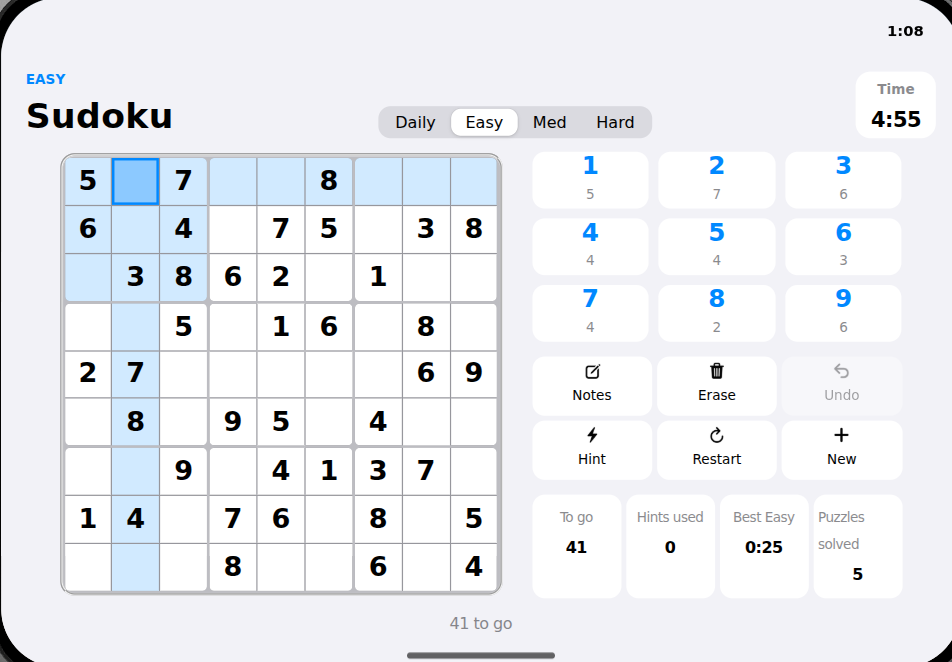
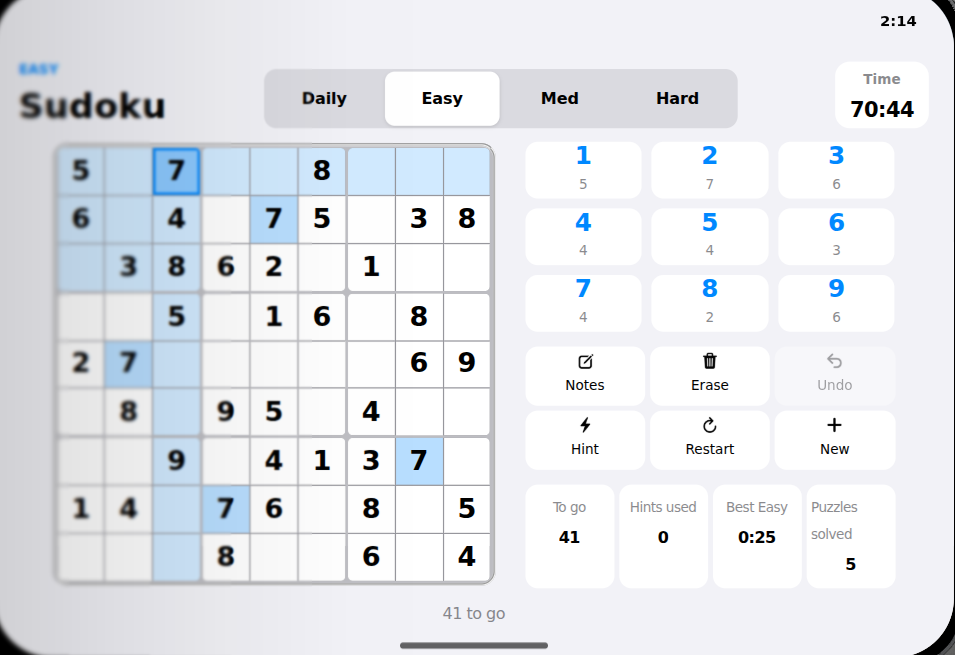
sudoku: trap focus inside confirm sheet, 44pt mode radiogroup
Make the underlying app inert while the destructive sheet is open, wrap
Tab/Shift+Tab between its actions, keep the scrim out of the tab order
and return focus to the opening control on every close path. Replace
the kit segmented (fixed 22pt choices) with a local >=44x44 radiogroup:
roving tab stop, arrows and Home/End move and focus the selection.
Refresh cover/inner screenshots for the taller mode row.

diff --git a/community-apps/sudoku/main.tsx b/community-apps/sudoku/main.tsx
@@ -1,6 +1,6 @@
 import { os } from '@doan-labs/duo-sdk'
 import { useKV } from '@doan-labs/duo-sdk/react.ts'
-import { Button, Segmented, Sheet, Sym, type SymProps, useDisplay, usePresence, useWide } from '@doan-labs/duo-uikit'
+import { Button, Sheet, Sym, type SymProps, useDisplay, usePresence, useWide } from '@doan-labs/duo-uikit'
 import { dark, light } from '@doan-labs/duo-uikit/styles.ts'
 import * as stylex from '@stylexjs/stylex'
 import { useCallback, useEffect, useMemo, useRef, useState } from 'react'
@@ -58,6 +58,56 @@ const firstOpen = (board: Grid) => {
   return i < 0 ? 0 : i
 }
 
+// The kit Segmented fixes its choices at 22 pt, which the 44 pt hit target
+// rules out, so the mode picker is a local radiogroup instead: a roving tab
+// stop, arrows and Home/End that move and focus the selection, and segments
+// sized by the control, not shrunk to their labels.
+function ModeGroup({ mode, onPick }: { mode: Mode; onPick: (m: Mode) => void }) {
+  const segs = useRef<(HTMLButtonElement | null)[]>([])
+  return (
+    <div role="radiogroup" aria-label="Game mode" {...stylex.props(styles.modeTrack)}>
+      {MODES.map((m, i) => {
+        const sel = m === mode
+        return (
+          <button
+            key={m}
+            ref={(el) => {
+              segs.current[i] = el
+            }}
+            type="button"
+            role="radio"
+            aria-checked={sel}
+            tabIndex={sel ? 0 : -1}
+            onClick={() => {
+              if (m !== mode) onPick(m)
+            }}
+            onKeyDown={(e) => {
+              const n = MODES.length
+              const j =
+                e.key === 'ArrowRight' || e.key === 'ArrowDown'
+                  ? (i + 1) % n
+                  : e.key === 'ArrowLeft' || e.key === 'ArrowUp'
+                    ? (i + n - 1) % n
+                    : e.key === 'Home'
+                      ? 0
+                      : e.key === 'End'
+                        ? n - 1
+                        : -1
+              if (j < 0 || j === i) return
+              e.preventDefault()
+              segs.current[j]?.focus()
+              onPick(MODES[j]!)
+            }}
+            {...stylex.props(styles.modeSeg, sel && styles.modeSegOn)}
+          >
+            {MODE_LABEL[m]}
+          </button>
+        )
+      })}
+    </div>
+  )
+}
+
 function Sudoku() {
   const view = useDisplay()
   const [rootRef, wide] = useWide<HTMLElement>()
@@ -80,6 +130,12 @@ function Sudoku() {
   // nulling state.
   const confirmKind = useRef<'restart' | 'new'>('restart')
   if (confirm) confirmKind.current = confirm
+  // Focus returns to whichever control opened the sheet, on every exit path.
+  const triggerRef = useRef<HTMLElement | null>(null)
+  const ask = (kind: 'restart' | 'new') => {
+    triggerRef.current = document.activeElement instanceof HTMLElement ? document.activeElement : null
+    setConfirm(kind)
+  }
 
   const lastSeen = useRef<string | null>(null)
   const storageLanded = useRef(false)
@@ -222,6 +278,22 @@ function Sudoku() {
     requestAnimationFrame(() => os.ready())
   }, [])
 
+  // While the sheet is up the rest of the app is inert and the scrim stays
+  // out of the tab order; on any close the trigger gets its focus back.
+  const wasConfirming = useRef(false)
+  useEffect(() => {
+    if (confirm !== null) {
+      wasConfirming.current = true
+      const scrim = rootRef.current?.querySelector('button[aria-label="Close"]')
+      if (scrim instanceof HTMLElement) scrim.tabIndex = -1
+    } else if (wasConfirming.current) {
+      wasConfirming.current = false
+      const t = triggerRef.current
+      triggerRef.current = null
+      t?.focus()
+    }
+  }, [confirm, rootRef])
+
   const press = useCallback(
     (key: string) => {
       const g = latest.current.game
@@ -347,7 +419,7 @@ function Sudoku() {
       label: 'Restart',
       icon: 'reload',
       disabled: false,
-      on: () => setConfirm('restart')
+      on: () => ask('restart')
     },
     // Daily is one fixed puzzle a day: "new" there is restart, so it drops out.
     ...(game.mode === 'daily'
@@ -358,29 +430,21 @@ function Sudoku() {
             label: 'New',
             icon: 'plus' as const,
             disabled: false,
-            on: () => setConfirm('new')
+            on: () => ask('new')
           }
         ])
   ]
 
   return (
     <main ref={rootRef} {...stylex.props(darkMode ? dark : light, styles.root, !wide && styles.rootCover)}>
-      <header {...stylex.props(styles.header)}>
+      <header {...stylex.props(styles.header)} inert={confirm !== null}>
         <div {...stylex.props(styles.brand)}>
           <span {...stylex.props(styles.kicker)}>{MODE_NAME[game.mode]}</span>
           <h1 {...stylex.props(styles.title, !wide && styles.titleCover)}>Sudoku</h1>
         </div>
         {wide && (
           <div {...stylex.props(styles.headerMode)}>
-            <Segmented
-              options={MODES.map((m) => MODE_LABEL[m])}
-              value={MODE_LABEL[game.mode]}
-              onChange={(label) => {
-                const next = MODES.find((m) => MODE_LABEL[m] === label)
-                if (next && next !== game.mode) deal(next)
-              }}
-              aria-label="Game mode"
-            />
+            <ModeGroup mode={game.mode} onPick={deal} />
           </div>
         )}
         <div {...stylex.props(styles.chip)} aria-live="off">
@@ -390,20 +454,12 @@ function Sudoku() {
       </header>
 
       {!wide && (
-        <div {...stylex.props(styles.bar)}>
-          <Segmented
-            options={MODES.map((m) => MODE_LABEL[m])}
-            value={MODE_LABEL[game.mode]}
-            onChange={(label) => {
-              const next = MODES.find((m) => MODE_LABEL[m] === label)
-              if (next && next !== game.mode) deal(next)
-            }}
-            aria-label="Game mode"
-          />
+        <div {...stylex.props(styles.bar)} inert={confirm !== null}>
+          <ModeGroup mode={game.mode} onPick={deal} />
         </div>
       )}
 
-      <section {...stylex.props(styles.stage, !wide && styles.stageCover)}>
+      <section {...stylex.props(styles.stage, !wide && styles.stageCover)} inert={confirm !== null}>
         <div {...stylex.props(styles.boardWrap)}>
           <fieldset aria-label="Sudoku board" {...stylex.props(styles.board, styles.boardSize(fit.board))}>
             {INDEXES.map((box) => (
@@ -540,11 +596,30 @@ function Sudoku() {
         </div>
       </section>
 
-      <p {...stylex.props(styles.status, !wide && styles.statusCover)} aria-live="polite">
+      <p {...stylex.props(styles.status, !wide && styles.statusCover)} aria-live="polite" inert={confirm !== null}>
         {note ?? statusText}
       </p>
 
-      <Sheet open={confirm !== null} onClose={() => setConfirm(null)} aria-label="Confirm">
+      <Sheet
+        open={confirm !== null}
+        onClose={() => setConfirm(null)}
+        aria-label="Confirm"
+        // The kit sheet is a non-modal dialog by design, so Tab containment
+        // is the app's job: wrap between its two action buttons.
+        onKeyDown={(e) => {
+          if (e.key !== 'Tab') return
+          const d = e.currentTarget
+          const f = d.querySelectorAll('button')
+          if (!f.length) return
+          const a = document.activeElement
+          const first = f[0]!
+          const last = f[f.length - 1]!
+          if (e.shiftKey ? a === first || a === d : a === last || a === d) {
+            e.preventDefault()
+            ;(e.shiftKey ? last : first).focus()
+          }
+        }}
+      >
         <div {...stylex.props(styles.sheet)}>
           <div {...stylex.props(styles.sheetTitle)}>
             {confirmKind.current === 'restart'

diff --git a/community-apps/sudoku/styles.ts b/community-apps/sudoku/styles.ts
@@ -288,6 +288,43 @@ export const styles = stylex.create({
   sheetText: { fontSize: typeScale.footnote, color: app.label2, lineHeight: leading.body },
   sheetBtns: { display: 'flex', flexDirection: 'column', gap: space.sm },
   sheetBtn: { minHeight: 44 },
+  // Local radiogroup for the mode picker: the kit Segmented pins choices at
+  // 22 pt, so this one gives every segment a 44x44 pt region and the shared
+  // press state.
+  modeTrack: {
+    display: 'flex',
+    width: '100%',
+    maxWidth: 384,
+    gap: space.xxs,
+    paddingTop: space.xxs,
+    paddingRight: space.xxs,
+    paddingBottom: space.xxs,
+    paddingLeft: space.xxs,
+    borderRadius: radius.md,
+    backgroundColor: app.fill
+  },
+  modeSeg: {
+    height: 44,
+    minWidth: 44,
+    flex: '1 1 0',
+    paddingTop: 0,
+    paddingRight: space.md,
+    paddingBottom: 0,
+    paddingLeft: space.md,
+    borderWidth: 0,
+    borderRadius: radius.sm,
+    backgroundColor: 'transparent',
+    color: 'inherit',
+    fontFamily: fonts.system,
+    fontSize: typeScale.footnote,
+    letterSpacing: tracking.footnote,
+    fontWeight: weight.semibold,
+    cursor: 'pointer',
+    transitionProperty: 'transform, background-color',
+    transitionDuration: `${motion.pressDuration}, .2s`,
+    transform: { default: 'scale(1)', ':active': motion.press }
+  },
+  modeSegOn: { backgroundColor: app.control, boxShadow: shadow.card },
   dangerBtn: { color: colors.red },
   stats: { display: 'grid', gridTemplateColumns: 'repeat(4, 1fr)', gap: space.xs },
   statRow: {
